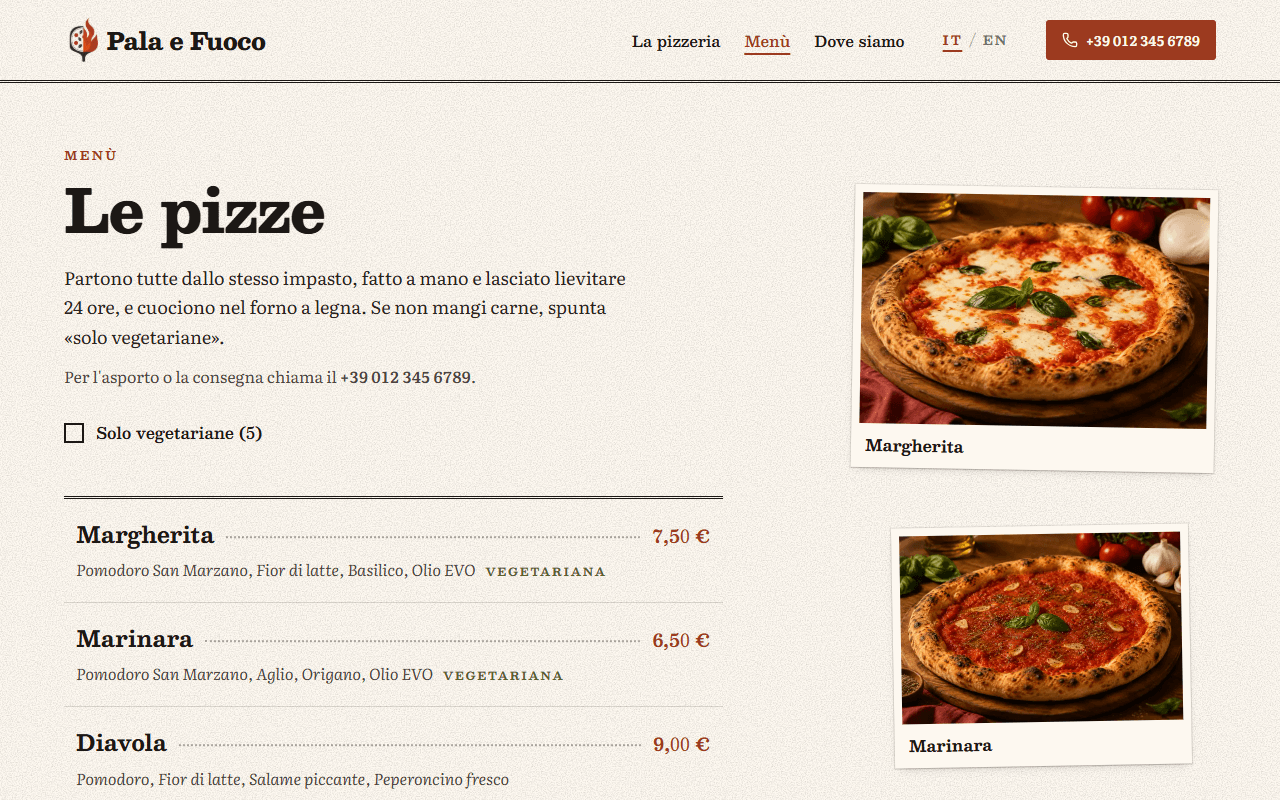
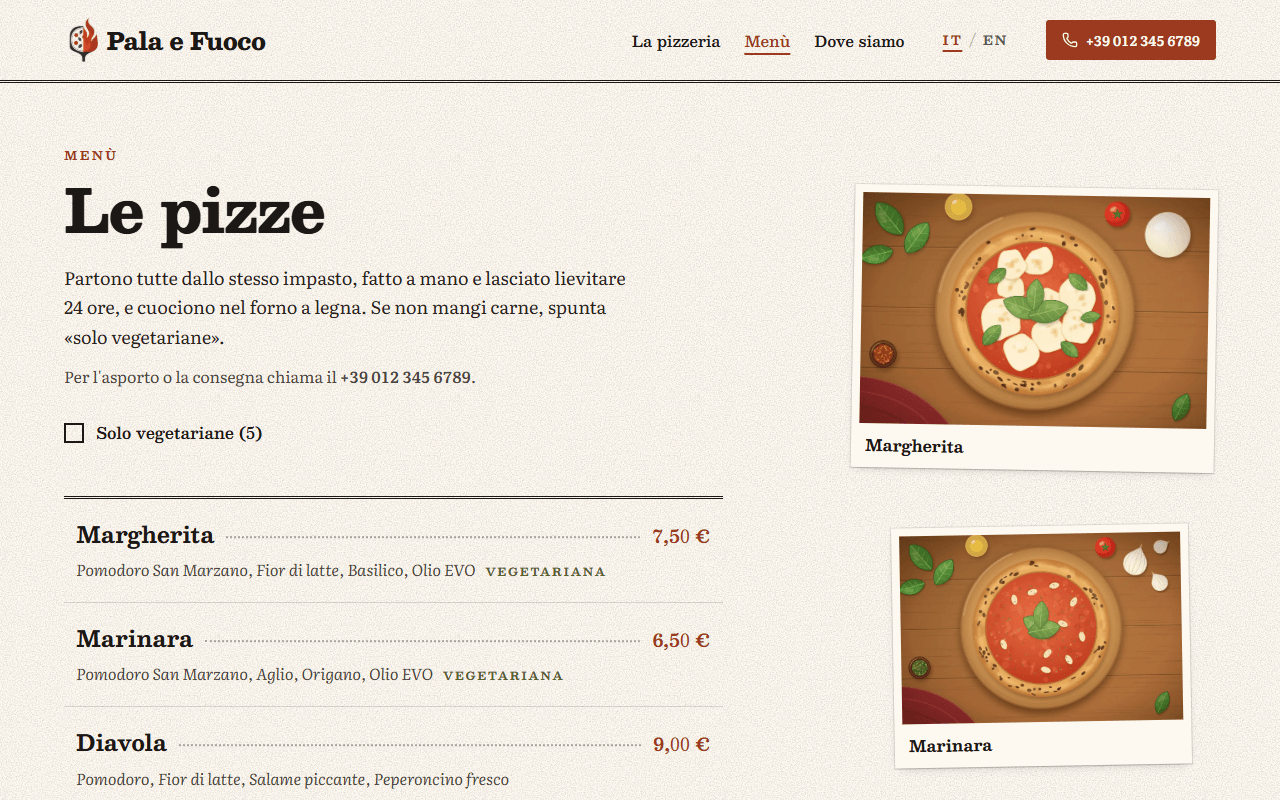
[IMPL]
- nuove immagini per il README.md con le nove foto della pagina

Changed region(s): [[0.6562, 0.2188, 0.9688, 0.5625], [0.6875, 0.6562, 0.9375, 0.9062]]

diff --git a/README.md b/README.md
@@ -2,7 +2,7 @@
 
 Sito di una pizzeria di quartiere immaginaria, con **menù filtrabile, orari e stato di apertura in tempo reale**. Ha due pagine, la home e il menù, in italiano e inglese, con uno stile «da menù stampato» su fondo color carta.
 
-![Home: titolo, foto della Margherita e stato di apertura](docs/screenshots/hero.png)
+![Home: titolo, illustrazione della Margherita e stato di apertura](docs/screenshots/hero.png)
 
 **Demo online:** il sito è pubblicato con GitHub Pages; il link è nella sezione *About* di questo repository.
 
@@ -11,16 +11,16 @@ Sito di una pizzeria di quartiere immaginaria, con **menù filtrabile, orari e s
 ## Funzionalità
 
 - **Stato di apertura** calcolato sull'ora di Roma, non su quella del visitatore: «Adesso siamo aperti, fino alle 23:00», «Stasera apriamo alle 18:30» oppure «Adesso siamo chiusi: riapriamo domani alle 18:30». Si aggiorna da solo ogni 30 secondi; il giorno di chiusura la riga di oggi negli orari si evidenzia.
-- **Menù** di 10 pizze con prezzo, ingredienti e foto per le tre classiche, più il supplemento per l'impasto senza glutine. Il filtro «Solo vegetariane» mostra quante pizze troverebbe e annuncia il risultato ai lettori di schermo.
+- **Menù** di 10 pizze con prezzo, ingredienti e illustrazione per le tre classiche, più il supplemento per l'impasto senza glutine. Il filtro «Solo vegetariane» mostra quante pizze troverebbe e annuncia il risultato ai lettori di schermo.
 - **Link diretti alle pizze**: in home ogni nome porta alla sua voce nel menù (`/menu#diavola`), che si illumina per un attimo. Anche «Dove siamo» (`/#contatti`) funziona da qualunque pagina.
 - **Riassunto del menù** in home ricavato dai dati: numero di pizze, quante sono vegetariane, la più economica e la più cara. Cambiando il menù il testo resta giusto.
 - **Italiano e inglese** con un selettore nella nav. La scelta resta salvata nel browser. Prezzi (`7,50 €` / `€7.50`) e giorni cambiano con la lingua; gli orari restano in 24 ore.
-- **Responsive**, da 320px in su: sotto i 375px il logo lascia il posto al solo nome, su mobile le foto del menù diventano una striscia orizzontale.
+- **Responsive**, da 320px in su: sotto i 375px il logo lascia il posto al solo nome, su mobile le illustrazioni del menù diventano una striscia orizzontale.
 - **Accessibile**: contrasti WCAG AA, filtro con annuncio per i lettori di schermo, animazioni spente con «riduci movimento» attivo nel sistema.
 
 | Menù | Contatti e orari |
 |---|---|
-| ![Menù con il filtro vegetariano e le foto delle pizze](docs/screenshots/menu.png) | ![Orari, stato di apertura e cartina della zona](docs/screenshots/contatti.png) |
+| ![Menù con il filtro vegetariano e le illustrazioni delle pizze](docs/screenshots/menu.png) | ![Orari, stato di apertura e cartina della zona](docs/screenshots/contatti.png) |
 
 ![Versione mobile in italiano e in inglese](docs/screenshots/mobile.png)
 
@@ -66,7 +66,7 @@ Altri dettagli:
 
 ### Menù
 
-Ogni pizza in `MENU` ha uno slug, il nome, il prezzo in euro, la foto (solo Margherita, Marinara e Diavola) e il segno «vegetariana». Gli ingredienti sono nei testi, alla chiave `menu.items.<slug>.ingredients`: `useMenu` li unisce ai dati nella lingua attiva.
+Ogni pizza in `MENU` ha uno slug, il nome, il prezzo in euro, l'illustrazione (solo Margherita, Marinara e Diavola) e il segno «vegetariana». Gli ingredienti sono nei testi, alla chiave `menu.items.<slug>.ingredients`: `useMenu` li unisce ai dati nella lingua attiva.
 
 - **Filtro «Solo vegetariane»**: nasconde le altre pizze e annuncia ai lettori di schermo quante ne restano («5 pizze mostrate»). Il numero tra parentesi nell'etichetta si conta dai dati.
 - **Senza glutine**: l'impasto senza glutine non è una pizza ma un supplemento (`GLUTEN_FREE_PRICE`, 2 €). Chiude sempre l'elenco, anche con il filtro attivo, con il prezzo preceduto da «+».
@@ -86,18 +86,18 @@ src/
   App.tsx                  rotte: / (home) e /menu
   PizzeriaLayout.tsx       nav, pagina e footer
   pizzeria.css             Tailwind con il tema della pizzeria (palette, font, grana della carta)
-  assets/                  logo e foto delle pizze (WebP)
+  assets/                  logo e illustrazioni delle pizze (WebP)
   components/
     PizzeriaNav.tsx        logo, link, selettore di lingua e pulsante «Chiama»
     PizzeriaFooter.tsx     indirizzo, telefono e orari
     LanguageSwitch.tsx     selettore IT/EN
     MenuRow.tsx            voce di menù con i puntini di guida; id = slug, usato come ancora
-    PhotoPrint.tsx         foto di una pizza trattata come una stampa, con didascalia
+    PhotoPrint.tsx         illustrazione di una pizza trattata come una stampa, con didascalia
     OpeningStatus.tsx      riga «aperto / chiuso»
     StreetMap.tsx          cartina disegnata della zona (SVG)
     ui/Reveal.tsx          comparsa animata delle sezioni allo scroll
   data/
-    menu.ts                le pizze: nome, prezzo in euro, foto, vegetariana
+    menu.ts                le pizze: nome, prezzo in euro, illustrazione, vegetariana
     info.ts                indirizzo e telefono (fittizi), orari e getOpeningStatus()
   i18n/
     index.ts               configurazione di i18next
@@ -106,7 +106,7 @@ src/
     it.json, en.json       tutti i testi del sito
   pages/
     PizzeriaHome.tsx       home: apertura, storia, cosa c'è in carta, contatti
-    PizzeriaMenu.tsx       menù con filtro e foto
+    PizzeriaMenu.tsx       menù con filtro e illustrazioni
   useHours.ts              giorni e orari nella lingua attiva
   useMenu.ts               menù con gli ingredienti nella lingua attiva
   useOpeningStatus.ts      stato di apertura, ricalcolato ogni 30 secondi
@@ -144,7 +144,7 @@ Il tono è discorsivo: «noi», la pizzeria, che parla al cliente dando del «tu
 
 ### Direzione visiva: «La carta»
 
-Il sito imita il menù stampato che il cliente trova sul tavolo: fondo color carta con una grana leggera, inchiostro scuro, un secondo inchiostro terracotta, filetti orizzontali (anche doppi) al posto dei riquadri. Le foto sono trattate come stampe appoggiate sul foglio, con didascalia presa dal menù; le pizze senza foto restano solo testo. Anche il selettore di lingua è «a stampa»: due voci di testo, quella attiva sottolineata come i link della nav. La cartina dei contatti è disegnata con gli stessi colori.
+Il sito imita il menù stampato che il cliente trova sul tavolo: fondo color carta con una grana leggera, inchiostro scuro, un secondo inchiostro terracotta, filetti orizzontali (anche doppi) al posto dei riquadri. Le illustrazioni delle pizze, viste dall'alto su un tagliere, sono trattate come stampe appoggiate sul foglio, con didascalia presa dal menù; le pizze senza illustrazione restano solo testo. Anche il selettore di lingua è «a stampa»: due voci di testo, quella attiva sottolineata come i link della nav. La cartina dei contatti è disegnata con gli stessi colori.
 
 Da evitare: card con ombra morbida e icona, badge e pulsanti a pillola, gradienti decorativi, icone al posto delle immagini.
 
